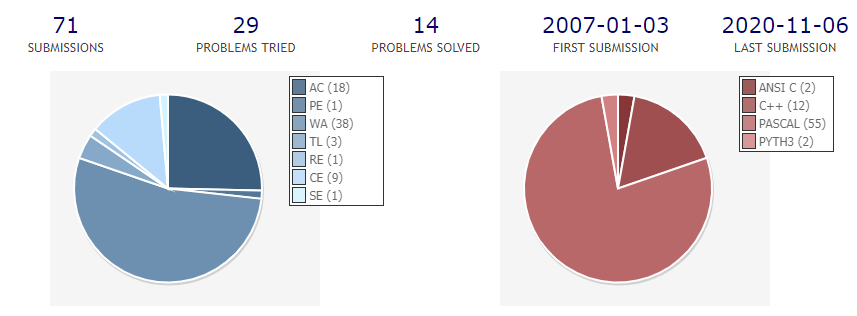
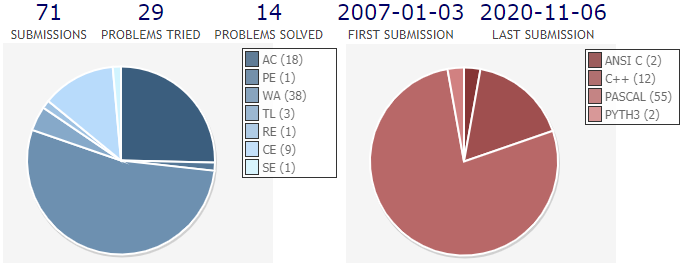
UVA

Changed region(s): [[0.0, 0.0, 1.0, 0.9517], [0.5212, 0.2379, 0.8277, 0.9814]]

diff --git a/index.html b/index.html
@@ -61,6 +61,24 @@
 						    <h2 class="resume-section-title text-uppercase font-weight-bold pb-3 mb-3">Education & Work Experience</h2>
 						    <div class="resume-section-content">
 							    <div class="resume-timeline position-relative">
+									<article class="resume-timeline-item position-relative pb-5">
+									    <div class="resume-timeline-item-header mb-2">
+										    <div class="d-flex flex-column flex-md-row">
+										        <h3 class="resume-position-title font-weight-bold mb-1">UVa Programming Contest Club @ Banqiao Senior High School</h3>
+										        <div class="resume-company-name ms-auto"></div>
+										    </div><!--//row-->
+										    <div class="resume-position-time">2006 - 2009</div>
+											<div class="resume-timeline-item-desc" >
+												<img style="max-width: 80%;" src="./assets/images/UVA.png">
+												<p>My statics on UVa Online Judge</p>
+												<h4 class="resume-timeline-item-desc-heading font-weight-bold">Skills used:</h4>
+												<ul class="list-inline">
+													<li class="list-inline-item"><span class="badge bg-secondary badge-pill">Algorithm</span></li>
+													<li class="list-inline-item"><span class="badge bg-secondary badge-pill">Programming</span></li>
+												</ul>
+											</div><!--//resume-timeline-item-desc-->
+									    </div><!--//resume-timeline-item-header-->
+								    </article><!--//resume-timeline-item-->	
 								    <article class="resume-timeline-item position-relative pb-5">
 									    <div class="resume-timeline-item-header mb-2">
 										    <div class="d-flex flex-column flex-md-row">
